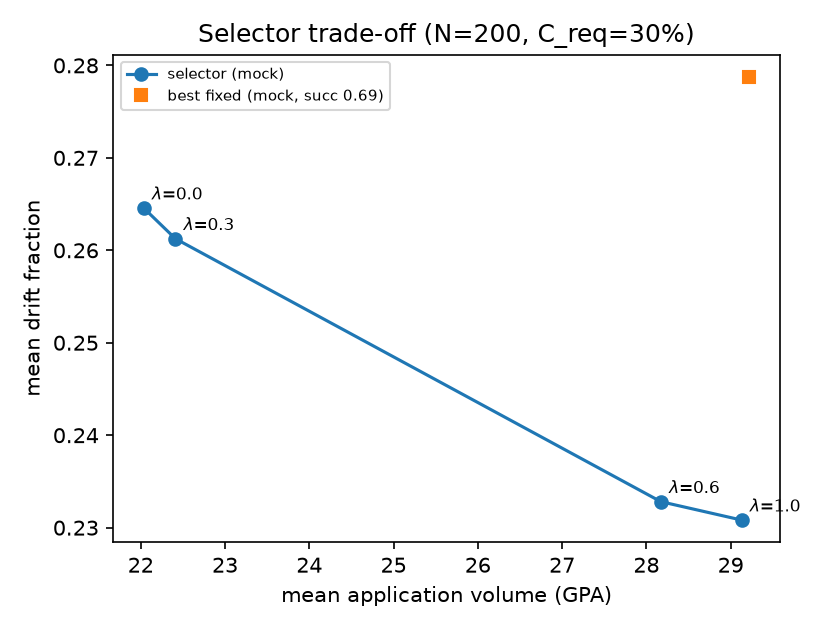
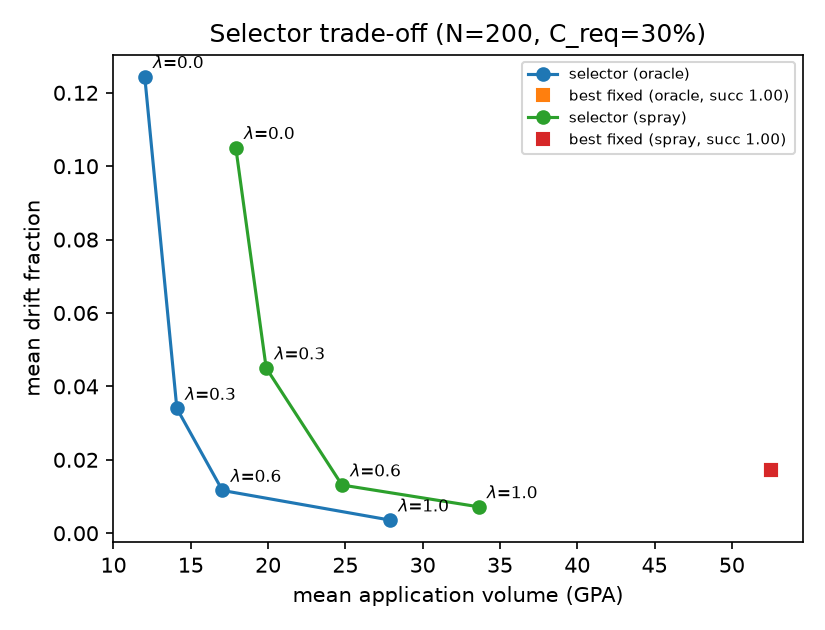
Selector eval: learned model selects, simulator scores; drop mock config with real catalog

diff --git a/experiments/eval_selector.py b/experiments/eval_selector.py
@@ -51,12 +51,15 @@ def sample_conditions(n: int, seed: int) -> list[Conditions]:
     return out
 
 
-def evaluate(model, scenarios, selector: ConstrainedSelector, c_req: float, bias: float = 0.0):
-    """Run selector per scenario, score chosen setting under `model` as truth."""
+def evaluate(model, scenarios, selector: ConstrainedSelector, c_req: float, bias: float = 0.0,
+             truth=None):
+    """Run selector per scenario with `model`; score the chosen setting under `truth`
+    (defaults to `model`, i.e. no model error)."""
+    truth = truth or model
     cov, drift, gpa, infeas = [], [], [], 0
     for x in scenarios:
         u, info = selector.select(x, model, bias, c_req)
-        p = model.predict(x, u)
+        p = truth.predict(x, u)
         cov.append(p.coverage_pct)
         drift.append(p.drift_frac)
         gpa.append(selector._derive_fn(x, u).app_rate_gpa)
@@ -66,12 +69,14 @@ def evaluate(model, scenarios, selector: ConstrainedSelector, c_req: float, bias
             "mean_gpa": float(np.mean(gpa)), "infeasible_frac": infeas / len(scenarios)}
 
 
-def run_config(name, model, scenarios, c_req):
+def run_config(name, model, scenarios, c_req, truth=None):
+    """Selector uses `model`; outcomes and the fixed-setting baselines are scored under `truth`."""
+    truth = truth or model
     sel = ConstrainedSelector()
-    res = {"selector": evaluate(model, scenarios, sel, c_req)}
-    cov_m, _, _ = _stats_for_candidates(scenarios, model, sel.candidates, sel._derive_fn)
+    res = {"selector": evaluate(model, scenarios, sel, c_req, truth=truth)}
+    cov_m, _, _ = _stats_for_candidates(scenarios, truth, sel.candidates, sel._derive_fn)
     res["achievable_frac"] = float((cov_m.max(axis=0) >= c_req).mean())  # some candidate meets C_req
-    bf, st = best_fixed_setting(scenarios, model, c_req, sel.candidates, sel._derive_fn, return_stats=True)
+    bf, st = best_fixed_setting(scenarios, truth, c_req, sel.candidates, sel._derive_fn, return_stats=True)
     j = st["index"]
     res["best_fixed"] = {"setting": vars(bf), "success": float(st["success"][j]),
                          "mean_drift": float(st["mean_drift"][j]), "mean_gpa": float(st["mean_gpa"][j])}
@@ -90,7 +95,8 @@ def run_config(name, model, scenarios, c_req):
         None if m is None else res["selector"]["mean_drift"] < m["mean_drift"])
     res["lambda_sweep"] = {}
     for lam in (0.0, 0.3, 0.6, 1.0):
-        res["lambda_sweep"][str(lam)] = evaluate(model, scenarios, ConstrainedSelector(lam=lam), c_req)
+        res["lambda_sweep"][str(lam)] = evaluate(model, scenarios, ConstrainedSelector(lam=lam), c_req,
+                                                 truth=truth)
     # runtime
     import time
     s = ConstrainedSelector()
@@ -114,16 +120,32 @@ def main() -> None:
     c_req = float(spec()["c_req_pct"])
     scenarios = sample_conditions(args.n, args.seed)
 
-    models = {"mock": MockModel()}
+    models = {}
+    try:
+        import coverageai.catalog  # noqa: F401  real catalog: mock model cannot score its sizes
+    except ImportError:
+        models["mock"] = MockModel()
     try:
         from coverageai.simulator import SpraySimulator
         models["oracle"] = SimulatorOracle(SpraySimulator())
     except Exception as e:  # WP-02 not merged yet
         print(f"oracle skipped: {e!r}")
 
-    out = {"n": args.n, "seed": args.seed, "c_req": c_req, "configs": {}}
+    truths = {}
+    try:
+        from coverageai.model.predictor import SprayModel
+        path = ROOT / "models" / "spray_model_v1.joblib"
+        if "oracle" in models and path.exists():
+            models["spray"] = SprayModel.load(path)
+            truths["spray"] = models["oracle"]  # learned model selects, simulator scores
+    except Exception as e:
+        print(f"spray model skipped: {e!r}")
+
+    out = {"n": args.n, "seed": args.seed, "c_req": c_req, "configs": {},
+           "note": "mock/oracle: selector model = truth (isolates selector); "
+                   "spray: SprayModel selects, simulator (mismatch none) scores"}
     for name, model in models.items():
-        out["configs"][name] = run_config(name, model, scenarios, c_req)
+        out["configs"][name] = run_config(name, model, scenarios, c_req, truth=truths.get(name))
         r = out["configs"][name]
         print(f"[{name}] selector success {r['selector']['success']:.3f} drift {r['selector']['mean_drift']:.4f} "
               f"gpa {r['selector']['mean_gpa']:.2f} | best_fixed success {r['best_fixed']['success']:.3f} "
